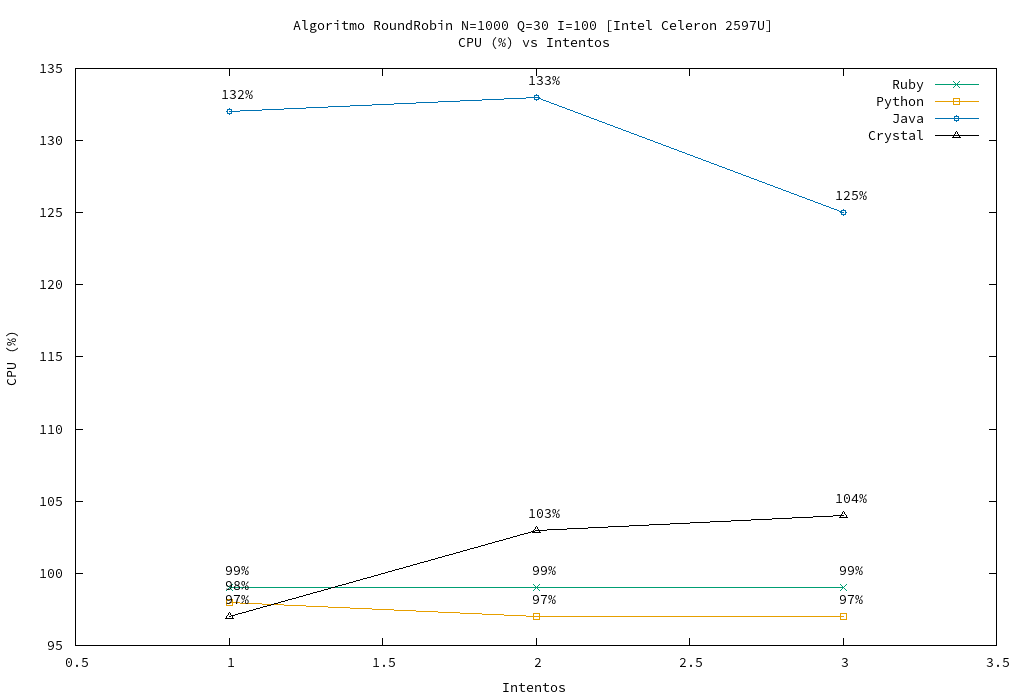
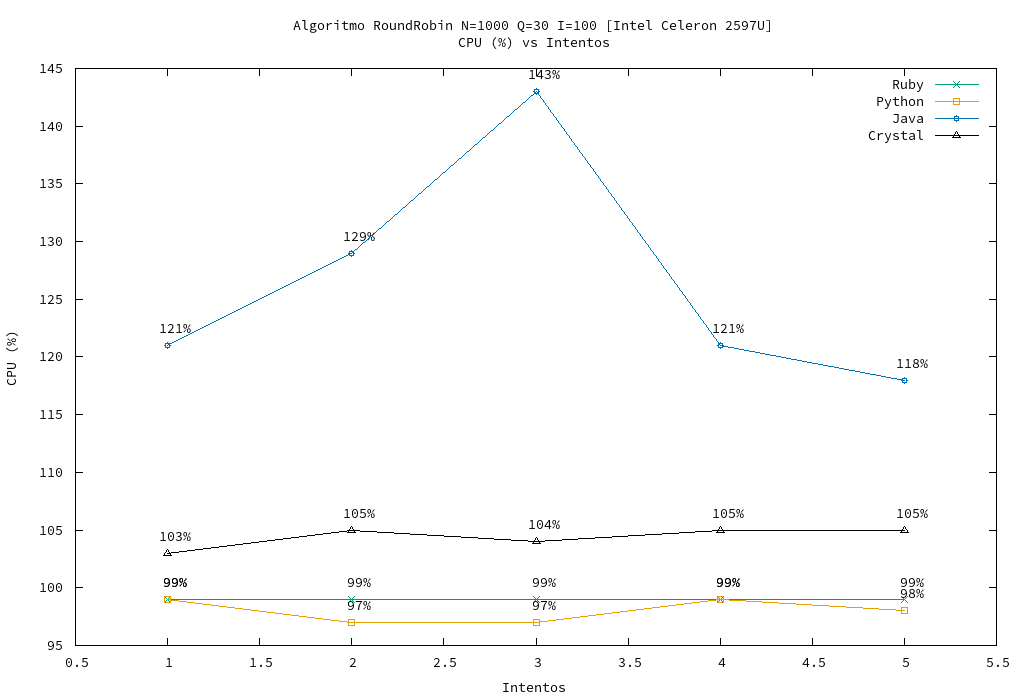
Add more iterations (3 to 5)

diff --git a/RoundRobin.py b/RoundRobin.py
@@ -29,7 +29,6 @@ class RoundRobin():
         self.titulo_buffer()
         self.cola_listo()
         self.procesar_cola()
-        self.guardar_archivo()
         print("{} guardado correctamente".format(self.archivo))
 
     def titulo_buffer(self):

diff --git a/RoundRobin.java b/RoundRobin.java
@@ -42,7 +42,6 @@ class RoundRobin {
         tituloBuffer();
         colaListo();
         procesarCola();
-        guardarArchivo();
         System.out.println(this.archivo + " guardado correctamente");
     }
 

diff --git a/RoundRobin.rb b/RoundRobin.rb
@@ -23,7 +23,6 @@ class RoundRobin
     titulo_buffer
     cola_listo
     procesar_cola
-    guardar_archivo
     puts "#{@archivo} guardado correctamente"
   end
 

diff --git a/README.md b/README.md
@@ -8,16 +8,49 @@ procesos en los siguientes lenguajes:
 * Java
 * Crystal
 
+# Salida
+
+```
+Algoritmo de planificación Round Robin
+N(Nuevo) L(Listo) E(Ejecución) T(Terminado)
+Cantidad de procesos: 1000
+Quantum: 30
+
+Proceso P1      P2      P3      P4      P5      P6      P7      ...
+ID      01      02      03      04      05      06      07      ...
+Instruc 100     100     100     100     100     100     100     ...
+Estado  N       N       N       N       N       N       N       ...
+Posic   1       2       3       4       5       6       7       ...
+
+Proceso P1      P2      P3      P4      P5      P6      P7      ...
+ID      01      02      03      04      05      06      07      ...
+Instruc 100     100     100     100     100     100     100     ...
+Estado  L       L       L       L       L       L       L       ...
+Posic   1       2       3       4       5       6       7       ...
+
+Proceso P1      P2      P3      P4      P5      P6      P7      ...
+ID      01      02      03      04      05      06      07      ...
+Instruc 70      100     100     100     100     100     100     ...
+Estado  E       L       L       L       L       L       L       ...
+Posic   1       2       3       4       5       6       7       ...
+...
+Proceso P1      P2      P3      P4      P5      P6      P7      ...
+ID      01      02      03      04      05      06      07      ...
+Instruc 0       0       0       0       0       0       0       ...
+Estado  T       T       T       T       T       T       T       ...
+Posic   0       0       0       0       0       0       0       ...
+```
+
 # Ejemplo
 
-* Cantidad de Procesos: 2000
+* Cantidad de Procesos: 1000
 * Instrucciones: 100
 * Quantum: 30
 
-![time](https://raw.githubusercontent.com/faustinoaq/RoundRobin/master/RR-P2000-Q30/__time.png)
-![memory](https://raw.githubusercontent.com/faustinoaq/RoundRobin/master/RR-P2000-Q30/__memory.png)
-![cpu](https://raw.githubusercontent.com/faustinoaq/RoundRobin/master/RR-P2000-Q30/__cpu.png)
-![memory_time](https://raw.githubusercontent.com/faustinoaq/RoundRobin/master/RR-P2000-Q30/__mem_time.png)
+![time](https://raw.githubusercontent.com/faustinoaq/RoundRobin/master/RR-P1000-Q30/__time.png)
+![memory](https://raw.githubusercontent.com/faustinoaq/RoundRobin/master/RR-P1000-Q30/__memory.png)
+![cpu](https://raw.githubusercontent.com/faustinoaq/RoundRobin/master/RR-P1000-Q30/__cpu.png)
+![memory_time](https://raw.githubusercontent.com/faustinoaq/RoundRobin/master/RR-P1000-Q30/__mem_time.png)
 
 # Autor
 [@faustinoaq](http://github.com/faustinoaq) Sept, 2016
